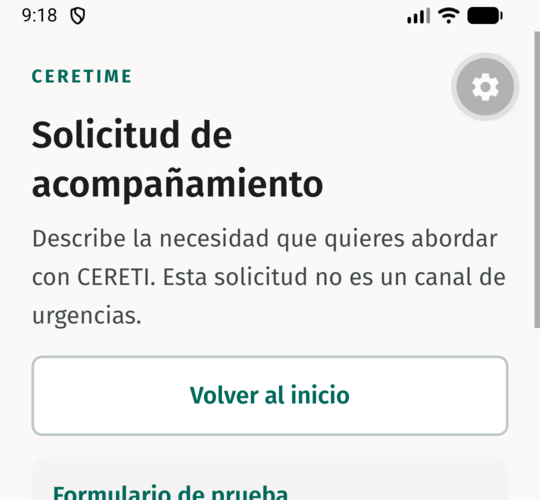
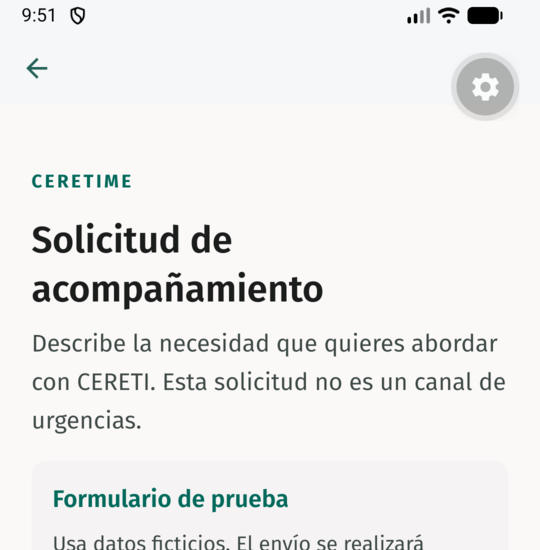
TI4-7 - fix(mobile): restaura header del formulario

diff --git a/apps/mobile/src/presentation/estudiante/new-request-screen.tsx b/apps/mobile/src/presentation/estudiante/new-request-screen.tsx
@@ -1,9 +1,9 @@
 import { useRef } from "react";
 import { KeyboardAvoidingView, ScrollView } from "react-native";
-import { router } from "expo-router";
+import { useHeaderHeight } from "expo-router/react-navigation";
 import type { StudentRequestSubmitter } from "@/application/student-area-port";
 import { createMockStudentRequestSubmitter } from "@/infrastructure/mock-student-request-submitter";
-import { StudentAction, StudentScreen } from "./student-screen";
+import { StudentScreen } from "./student-screen";
 import { RequestForm } from "./request-form";
 import { RoleGuard } from "../navigation/role-guard";
 
@@ -18,28 +18,21 @@ export interface NewRequestScreenProps {
 export default function NewRequestScreen({
   submitter = defaultSubmitter,
 }: NewRequestScreenProps = {}) {
+  const headerHeight = useHeaderHeight();
   const scrollRef = useRef<ScrollView>(null);
-
-  const goToStudentHome = () => {
-    if (router.canGoBack()) {
-      router.back();
-      return;
-    }
-    router.replace("/estudiante");
-  };
 
   return (
     <RoleGuard requiredRole="estudiante">
       <KeyboardAvoidingView
         className="flex-1"
         behavior={process.env.EXPO_OS === "ios" ? "padding" : undefined}
+        keyboardVerticalOffset={headerHeight}
       >
         <StudentScreen
           scrollRef={scrollRef}
           title="Solicitud de acompañamiento"
           description="Describe la necesidad que quieres abordar con CERETI. Esta solicitud no es un canal de urgencias."
         >
-          <StudentAction label="Volver al inicio" onPress={goToStudentHome} secondary />
           <RequestForm
             submitter={submitter}
             onRevealGroup={(y) => scrollRef.current?.scrollTo({ y, animated: false })}

diff --git a/apps/mobile/src/presentation/navigation/student-layout.tsx b/apps/mobile/src/presentation/navigation/student-layout.tsx
@@ -1,0 +1,26 @@
+import { Stack } from "expo-router";
+import type { NativeStackNavigationOptions } from "expo-router";
+
+export const studentLayoutScreenOptions = {
+  headerShown: false,
+} satisfies NativeStackNavigationOptions;
+
+export const studentRequestScreenOptions = {
+  headerShown: true,
+  headerTitle: "",
+  headerBackTitle: "Volver",
+  headerBackButtonDisplayMode: "minimal",
+  headerBackVisible: true,
+  headerTintColor: "#246259",
+  headerStyle: { backgroundColor: "#F5F7F8" },
+  headerShadowVisible: false,
+} satisfies NativeStackNavigationOptions;
+
+export default function StudentLayout() {
+  return (
+    <Stack screenOptions={studentLayoutScreenOptions}>
+      <Stack.Screen name="index" />
+      <Stack.Screen name="nueva-solicitud" options={studentRequestScreenOptions} />
+    </Stack>
+  );
+}

diff --git a/apps/mobile/__tests__/student-request.test.tsx b/apps/mobile/__tests__/student-request.test.tsx
@@ -68,13 +68,10 @@ describe("Formulario de solicitud del estudiante", () => {
     expect(await screen.findByText("Solicitud enviada")).toBeOnTheScreen();
     expect(revealGroup).toHaveBeenCalledTimes(2);
   });
-  test("recorre Inicio → Nueva solicitud → Inicio", async () => {
+  test("el stack conserva el retorno desde Nueva solicitud", async () => {
     const navigation = await openForm();
     expect(navigation.getPathname()).toBe("/estudiante/nueva-solicitud");
-    await act(async () => {
-      fireEvent.press(screen.getByRole("button", { name: "Volver al inicio" }));
-      await Promise.resolve();
-    });
+    await act(async () => router.back());
     expect(await screen.findByText("Inicio de Estudiante")).toBeOnTheScreen();
     expect(navigation.getPathname()).toBe("/estudiante");
   });

diff --git a/apps/mobile/__tests__/student-layout.test.tsx b/apps/mobile/__tests__/student-layout.test.tsx
@@ -1,0 +1,18 @@
+import {
+  studentLayoutScreenOptions,
+  studentRequestScreenOptions,
+} from "@/presentation/navigation/student-layout";
+
+test("mantiene ocultos los headers del área de estudiante por defecto", () => {
+  expect(studentLayoutScreenOptions).toMatchObject({ headerShown: false });
+});
+
+test("muestra sólo el header nativo de nueva solicitud con retorno y sin título duplicado", () => {
+  expect(studentRequestScreenOptions).toMatchObject({
+    headerShown: true,
+    headerTitle: "",
+    headerBackTitle: "Volver",
+    headerBackButtonDisplayMode: "minimal",
+    headerBackVisible: true,
+  });
+});

diff --git a/apps/mobile/app/(protected)/estudiante/_layout.tsx b/apps/mobile/app/(protected)/estudiante/_layout.tsx
@@ -1,1 +1,1 @@
-export { default } from "../../../src/presentation/navigation/role-layout";
+export { default } from "../../../src/presentation/navigation/student-layout";
